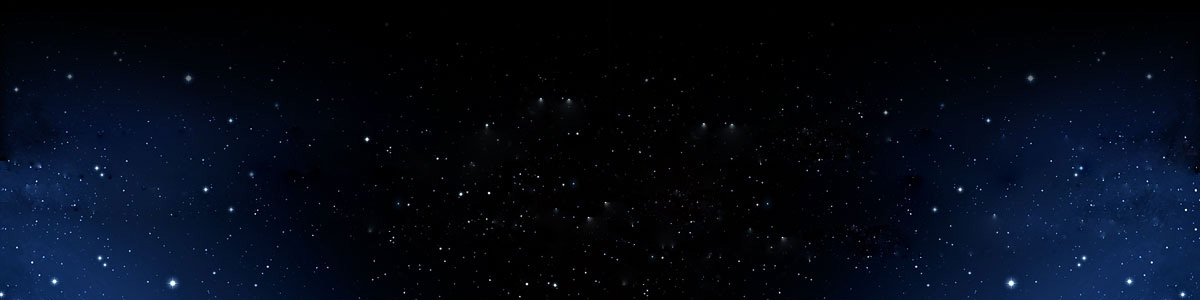
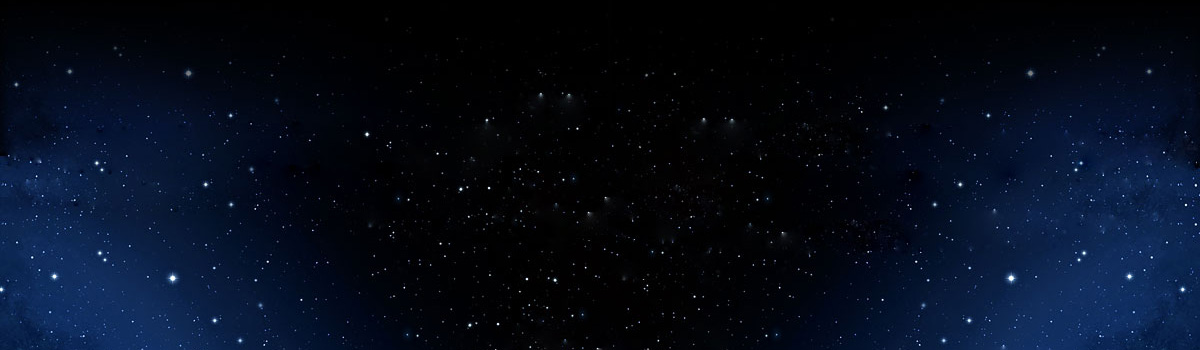
Added some extra height

diff --git a/core/app/assets/stylesheets/base/header.css.less b/core/app/assets/stylesheets/base/header.css.less
@@ -9,7 +9,7 @@
     z-index: -1;
     position: fixed;
     width: 100%;
-    height: 300px;
+    height: 350px;
     min-width: @siteWidth;
     top: 0;
     left: 0;
